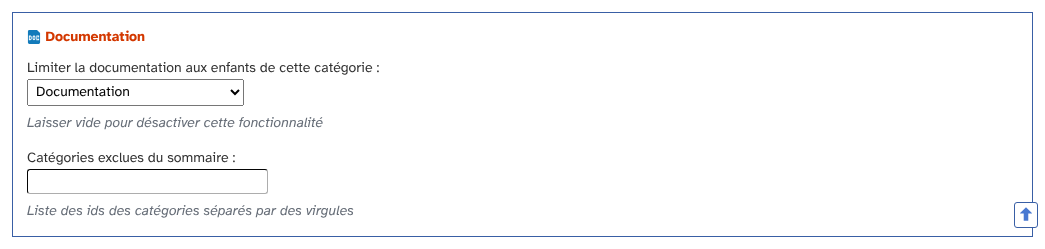
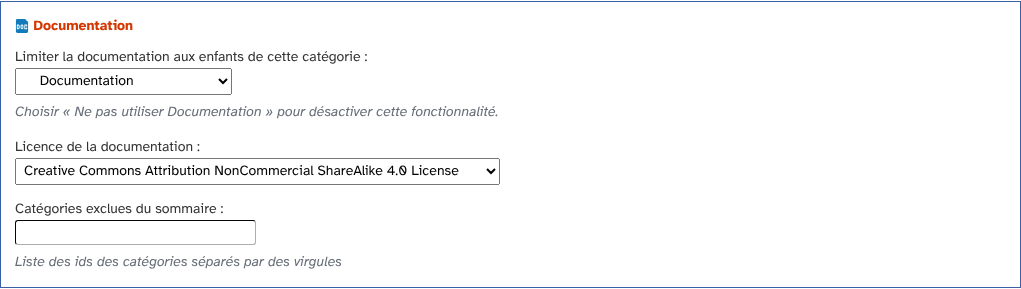
[cosmetic] User guide: follow the license, categories and themes fixes, new settings screenshot

Changed region(s): [[0.0, 0.0, 1.0, 0.9558], [0.0, 0.9839, 1.0, 1.0]]

diff --git a/docs/fr/utilisation.md b/docs/fr/utilisation.md
@@ -17,7 +17,7 @@ Ce plugin n'a pas de page d'administration : tout se règle dans les paramètres
 
 ## Ce qu'il faut avant de commencer
 
-Le thème du blog doit utiliser le jeu de modèles `dotty` (c'est le cas du thème Berlin). Avec un autre jeu de modèles, les pages de documentation affichent une erreur « Document non trouvé ».
+Le plugin fonctionne avec tous les thèmes : ses pages utilisent toujours ses propres gabarits et sa feuille de style.
 
 ## Préparer les catégories
 
@@ -27,11 +27,12 @@ Donnez une description à chaque catégorie : elle est affichée en haut des pag
 
 ## Régler le plugin
 
-Allez dans **Blog > Paramètres du blog**, puis ouvrez la section **Paramètres des plugins pour ce blog**. Le bloc **Documentation** propose deux réglages :
+Allez dans **Blog > Paramètres du blog**, puis ouvrez la section **Paramètres des plugins pour ce blog**. Le bloc **Documentation** propose trois réglages :
 
 ![Les réglages de Documentation](img/reglages-blog.png)
 
 * **Limiter la documentation aux enfants de cette catégorie** : choisissez la catégorie racine, ici **Documentation**. Laissez **Ne pas utiliser Documentation** pour désactiver le plugin.
+* **Licence de la documentation** : la licence Creative Commons affichée en bas des billets, par défaut BY-NC-SA 4.0. Six licences sont proposées.
 * **Catégories exclues du sommaire** : voir [plus bas](#exclure-des-catégories-du-sommaire).
 
 Enregistrez les paramètres du blog.
@@ -62,7 +63,7 @@ Un billet de documentation est présenté sans navigation « billet précédent 
 
 ## Exclure des catégories du sommaire
 
-Dans **Catégories exclues du sommaire**, écrivez les numéros (ids) des catégories à cacher, séparés par des virgules, par exemple `6` ou `6,7`. Le numéro d'une catégorie se voit dans l'adresse de son édition, dans l'administration.
+Dans **Catégories exclues du sommaire**, écrivez les numéros (ids) des catégories à cacher, séparés par des virgules, par exemple `6` ou `6,7`. Le numéro d'une catégorie se voit dans l'adresse de son édition, dans l'administration. Seuls les numéros sont gardés à l'enregistrement : le reste est ignoré.
 
 ![Le sommaire sans la catégorie exclue](img/sommaire-exclusion.png)
 
@@ -82,9 +83,5 @@ Si vous écrivez vos propres modèles, le plugin ajoute :
 
 ## Bon à savoir
 
-* **Seul le jeu de modèles `dotty` est géré.** Avec `mustek`, la feuille de style est chargée mais les pages de documentation renvoient une erreur 404, comme avec les autres jeux de modèles.
-* **Le badge de licence n'apparaît pas** sur les billets : le modèle du plugin l'accroche à un emplacement que le modèle `dotty` actuel n'utilise plus pour afficher un billet. Le badge n'a donc aucun effet visible, de même que les règles de style qui le concernent.
-* **Une seule licence** est prévue (Creative Commons BY-NC-SA 4.0) et aucun réglage ne permet de la changer.
-* **Les catégories exclues** se saisissent par numéro, sans aucune vérification.
-* **Le texte d'aide** de la catégorie dans les réglages (« Laisser vide pour désactiver cette fonctionnalité ») est trompeur : il faut choisir **Ne pas utiliser Documentation** pour désactiver.
-* **Fautes** : « documentaion » dans la description du plugin et dans le README.
+* **Le badge de licence** s'affiche en bas de chaque billet de documentation, avec un lien vers la licence choisie sur le site de Creative Commons.
+* **Les libellés des licences** sont en anglais dans la liste des réglages.
